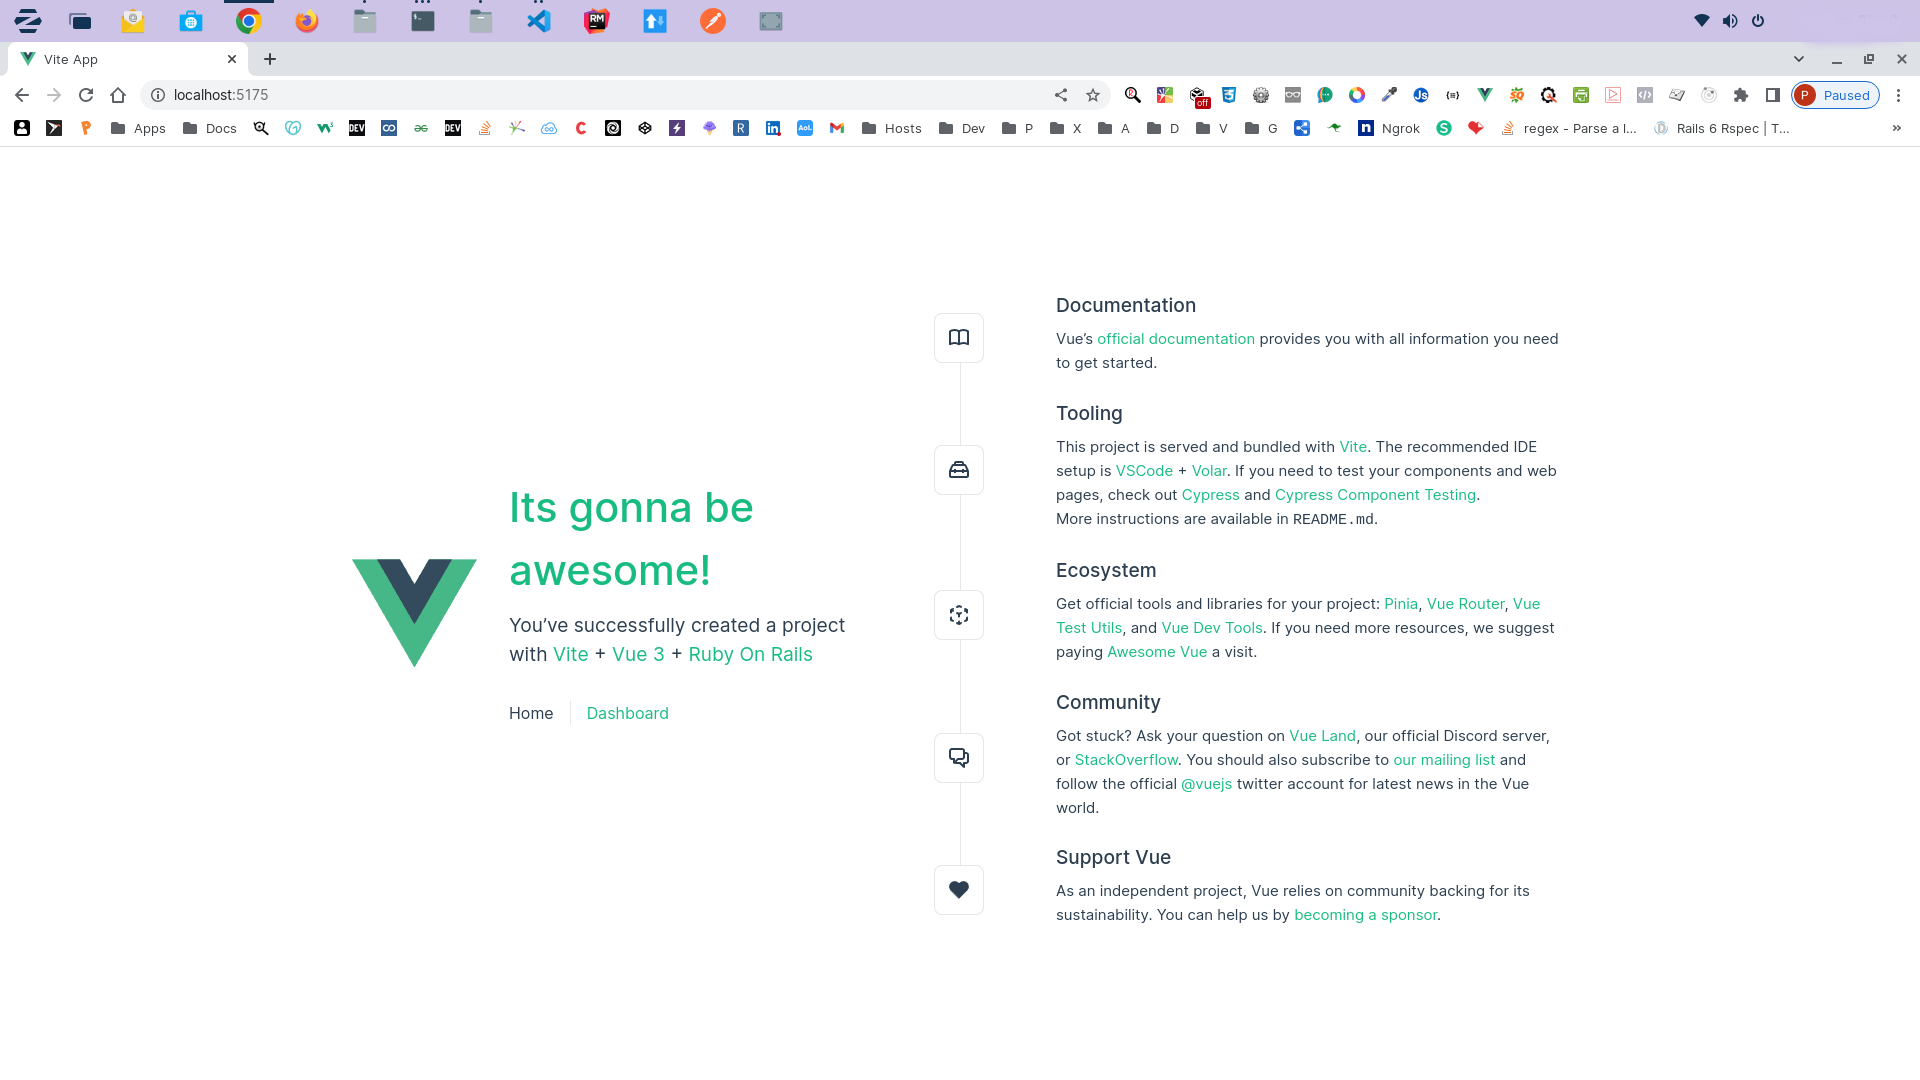
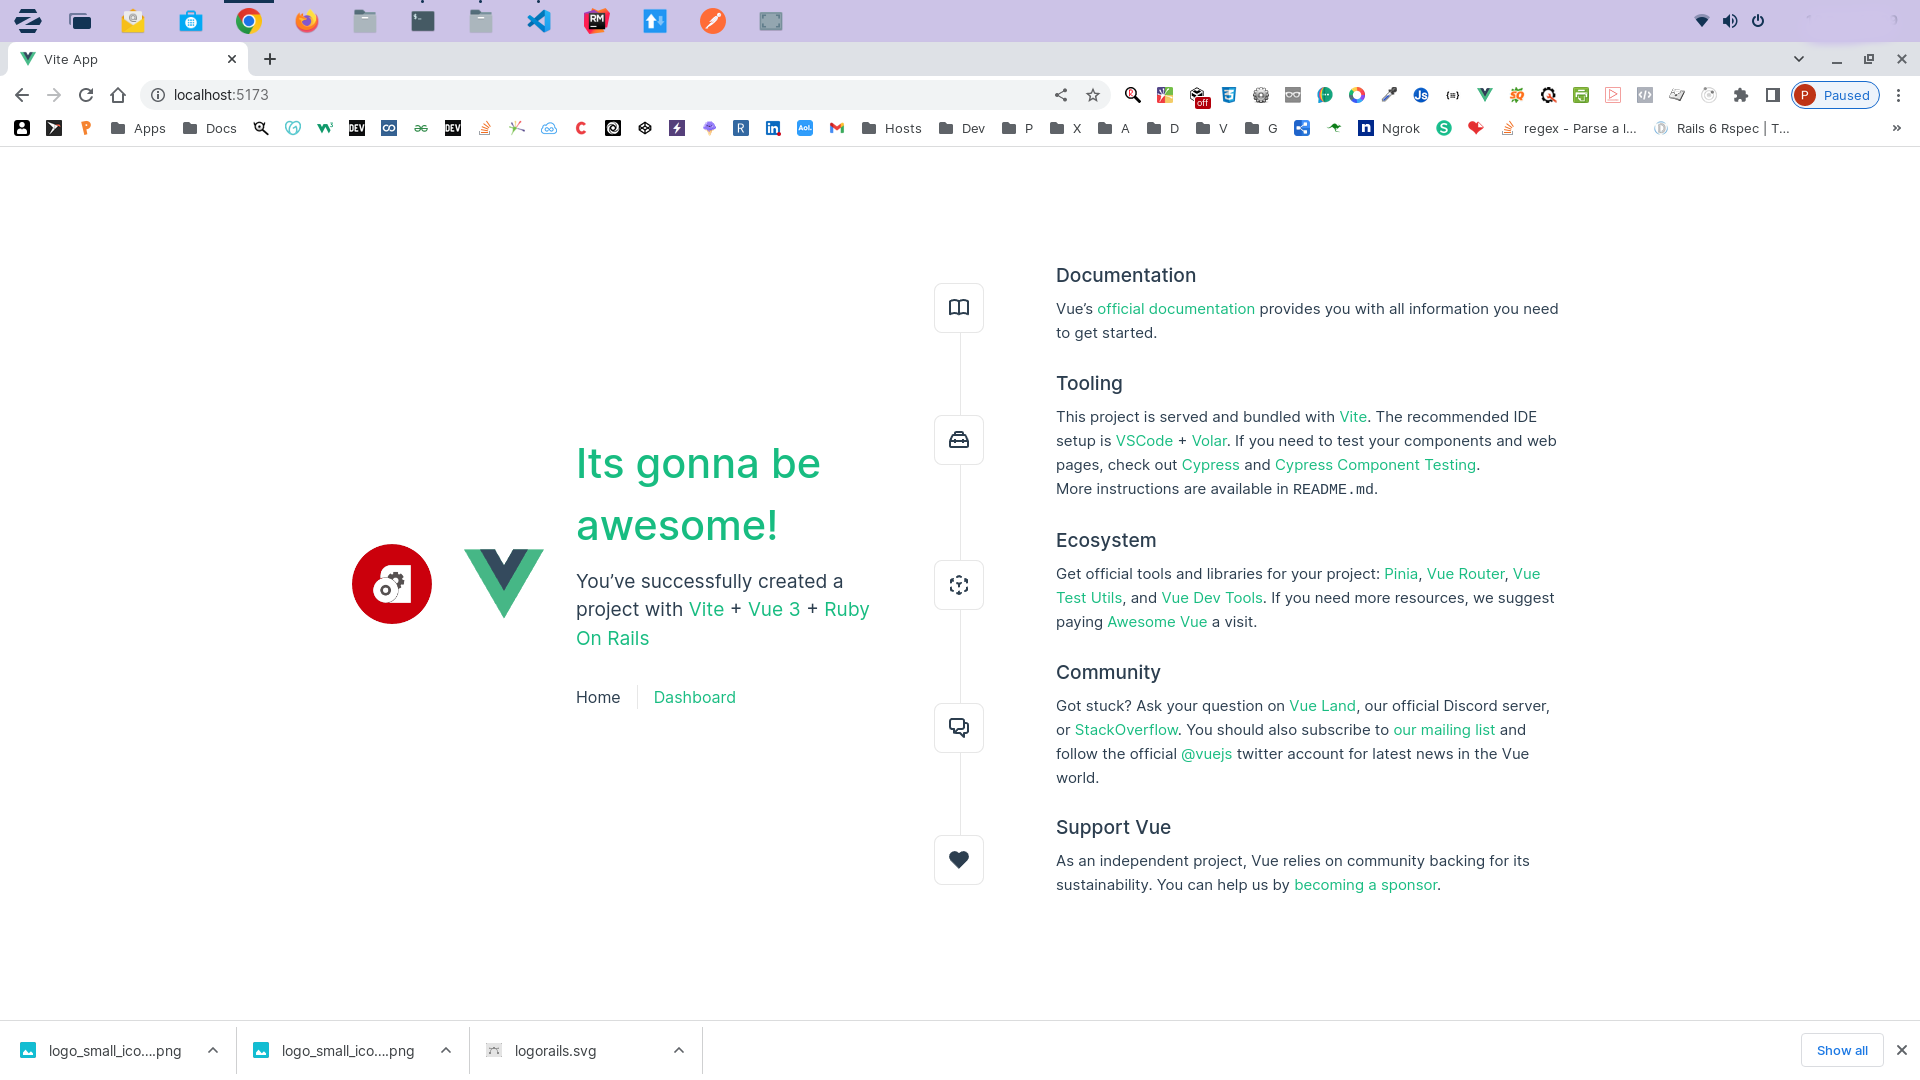
Update screenshot

diff --git a/vue-front/src/App.vue b/vue-front/src/App.vue
@@ -5,7 +5,8 @@ import HelloWorld from './components/HelloWorld.vue'
 
 <template>
   <header>
-    <img alt="Vue logo" class="logo" src="@/assets/logo.svg" width="125" height="125" />
+    <img alt="Rail logo" class="logo" src="@/assets/logorails.png" width="80" height="80" />
+    <img alt="Vue logo" class="logo" src="@/assets/logo.svg" width="80" height="80" />
 
     <div class="wrapper">
       <HelloWorld msg="Its gonna be awesome!" />

diff --git a/vue-front/README.md b/vue-front/README.md
@@ -1,6 +1,6 @@
 # vue-front
 
-This template should help get you started developing with Vue 3 in Vite.
+Front end for Ruby on Rails login and auth app. Vue/Vite
 
 ## Recommended IDE Setup
 
@@ -13,17 +13,20 @@ See [Vite Configuration Reference](https://vitejs.dev/config/).
 ## Project Setup
 
 ```sh
-npm install
+npm install or yarn
 ```
 
 ### Compile and Hot-Reload for Development
 
 ```sh
-npm run dev
+npm run dev or yarn dev
 ```
 
 ### Compile and Minify for Production
 
 ```sh
-npm run build
+npm run build or yarn build
+
+Runs on http://localhost:5173/
+
 ```
